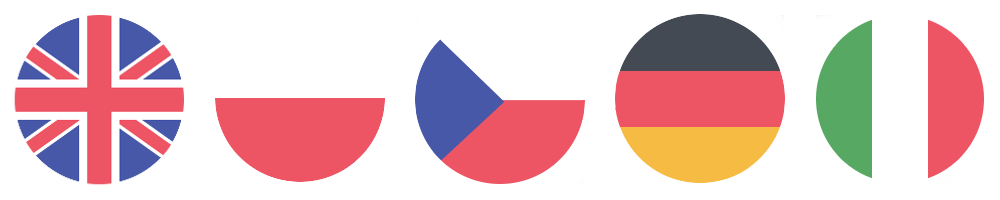
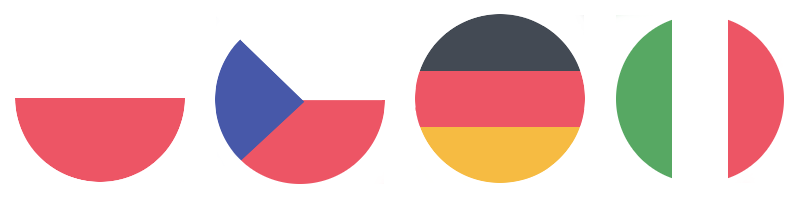
delete gb

diff --git a/partners.html b/partners.html
@@ -67,21 +67,6 @@ Purkyňova 97
               </div>
             </div>
             </section>
-            <section class="section--center mdl-grid mdl-grid--no-spacing mdl-shadow--2dp">
-            <header class="section__play-btn mdl-cell mdl-cell--3-col-desktop mdl-cell--2-col-tablet mdl-cell--4-col-phone mdl-color--teal-100 mdl-color-text--white">
-                <img src="/img/logo-bc.png" style="width: 200px;">
-            </header>
-            <div class="mdl-card mdl-cell mdl-cell--9-col-desktop mdl-cell--6-col-tablet mdl-cell--4-col-phone">
-              <div class="mdl-card__supporting-text">
-                <h4>Bluecoat Academy</h4>
-                Aspley Lane, NG75GY <br>
-                Nottingham
-            </div>
-              <div class="mdl-card__actions">
-                <a href="http://www.bluecoat.uk.com" class="mdl-button">Go to our site</a>
-              </div>
-            </div>
-          </section>
           <section class="section--center mdl-grid mdl-grid--no-spacing mdl-shadow--2dp">
             <div class="mdl-card mdl-cell mdl-cell--12-col">
               <div class="mdl-card__supporting-text mdl-grid mdl-grid--no-spacing">

diff --git a/index.html b/index.html
@@ -65,7 +65,7 @@ layout: default
      <div class="android-customized-section-text">
             <div class="mdl-typography--font-light mdl-typography--display-1-color-contrast">Who?</div>
             <p class="mdl-typography--font-light">
-                Erasmus+ EuApp16 is realized by 5 different schools from the European Union, they are helped by wonderful and professional partners, but to learn about that, you may want to check out our <a href="/partners/">'Partners'</a> page.
+                Erasmus+ EuApp16 is realized by 4 different schools from the European Union, they are helped by wonderful and professional partners, but to learn about that, you may want to check out our <a href="/partners/">'Partners'</a> page.
                 <br>
                 <br>
             </p>
